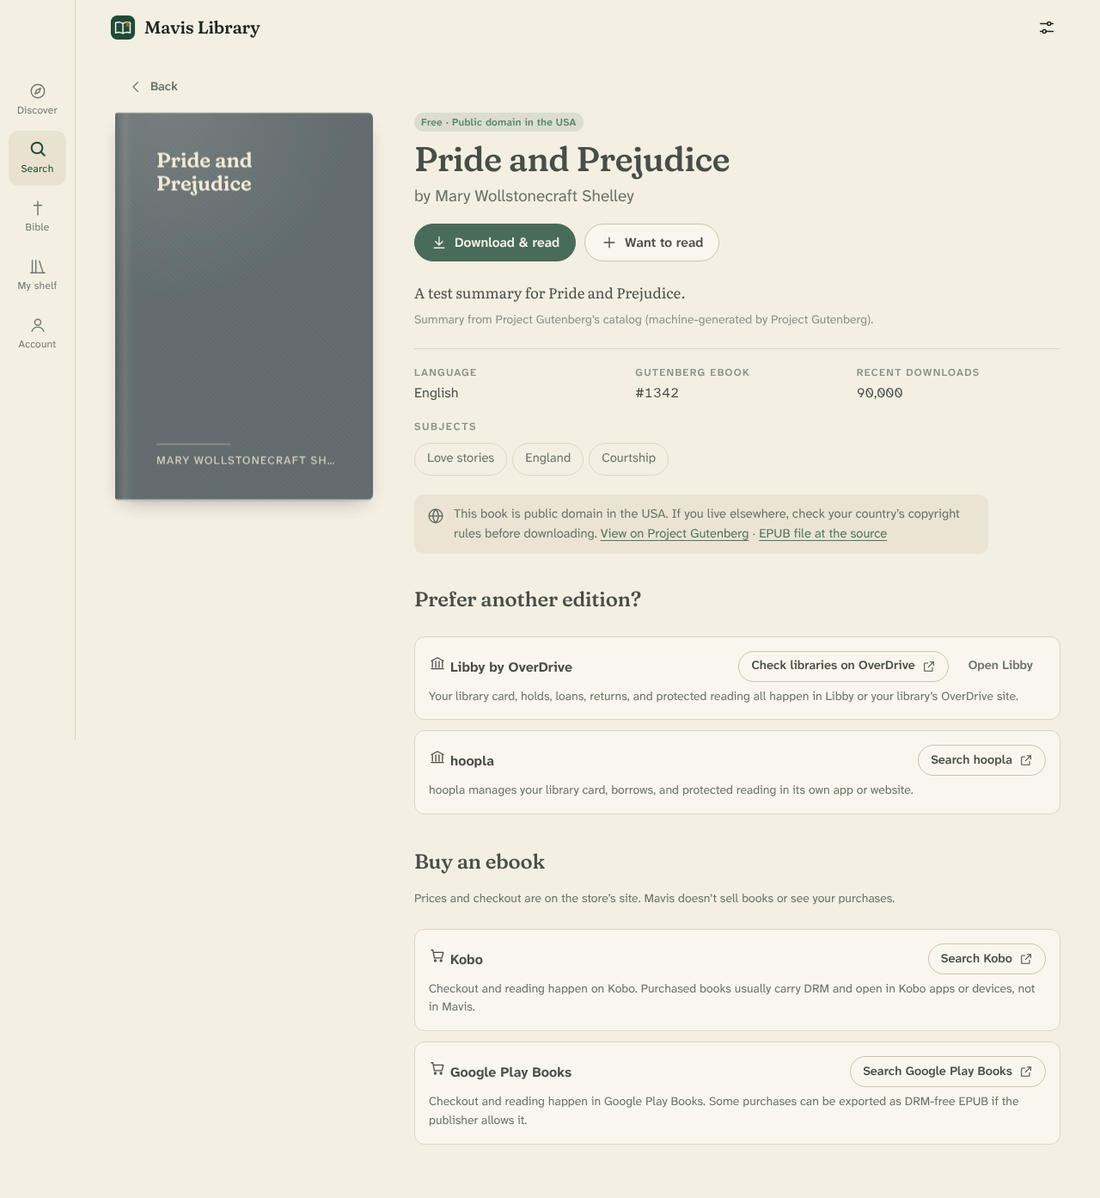
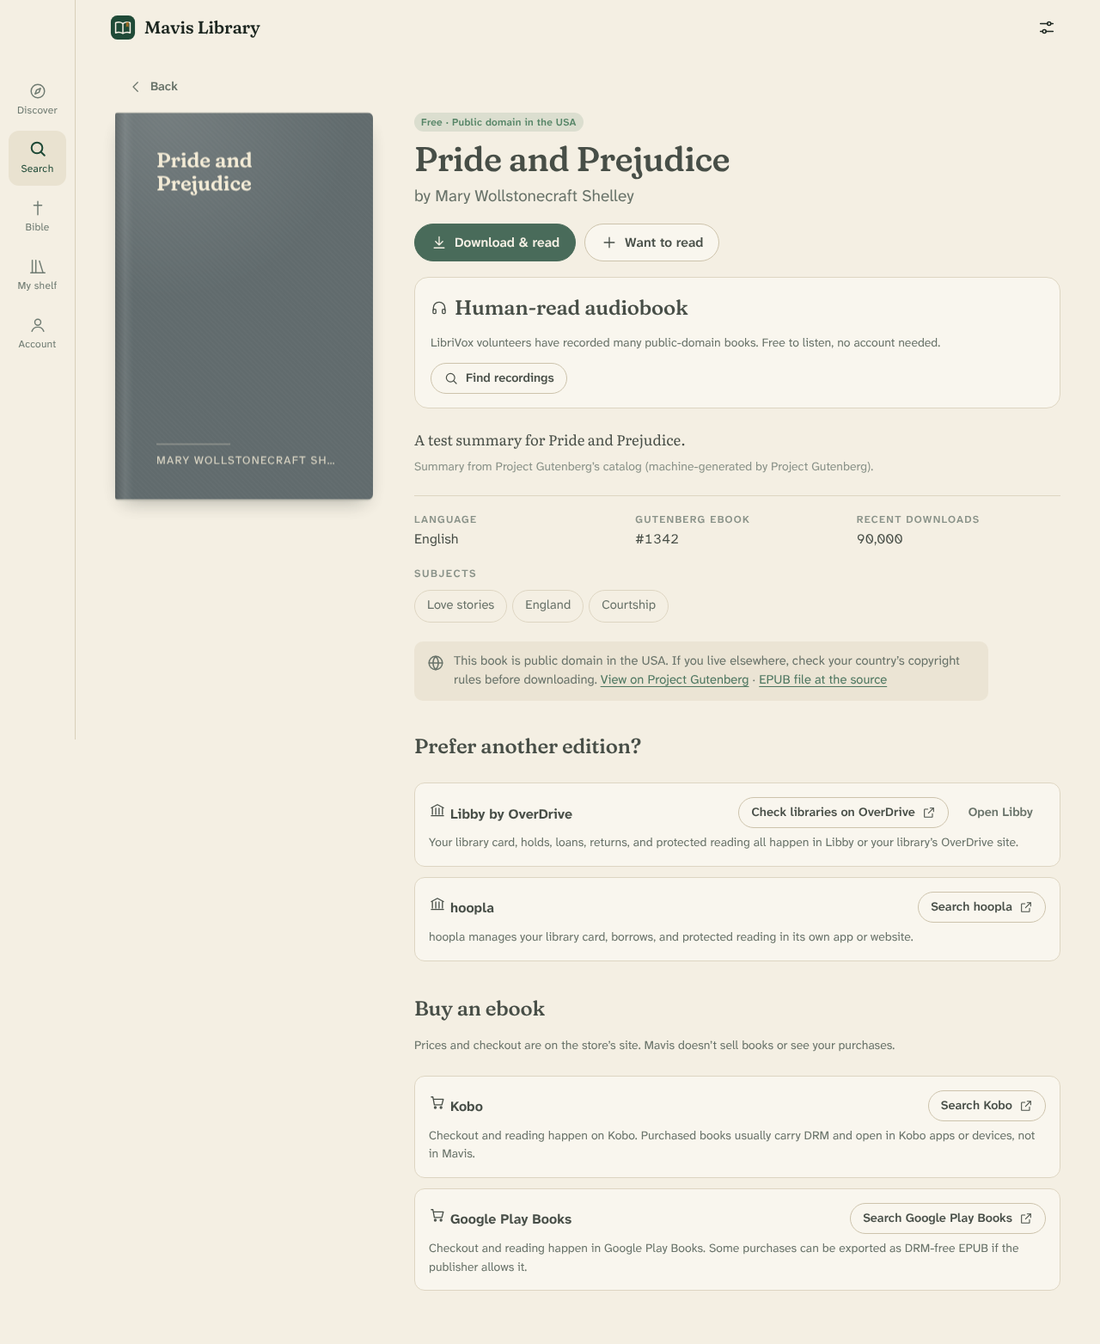
LibriVox human-read audiobooks: find, stream, save offline in the car player
Claude-Session: https://claude.ai/code/session_01BNnzn9vtXoxsDA29kevtWB

diff --git a/src/lib/librivox.js b/src/lib/librivox.js
@@ -1,0 +1,159 @@
+// LibriVox: free, human-read audiobooks of public-domain books (volunteer
+// readers; recordings are public domain). Recordings stream from archive.org
+// and can be saved on the device for offline listening. They play in the same
+// player as Mavis's own audiobooks, so position, speed, sleep timer, and car
+// controls all work the same.
+
+import { html, icon, toast, formatBytes, confirmDialog } from './ui.js';
+import * as idb from './idb.js';
+import * as store from './store.js';
+import * as ab from './audiobook.js';
+
+export const lvKey = (bookKey) => `lv:${bookKey}`;
+const mid = (key) => `${store.getOwner()}|${key}`;
+
+export async function findVersions(book) {
+  const p = new URLSearchParams({ title: book.title || '' });
+  if (book.source === 'gutenberg' && book.sourceId) p.set('gid', String(book.sourceId));
+  const a = (book.authors || [])[0];
+  if (a) p.set('author', typeof a === 'string' ? a : a.name || '');
+  let r;
+  try { r = await fetch(`/api/librivox?${p}`); } catch { throw new Error('Couldn’t reach LibriVox. Check your connection.'); }
+  const j = await r.json().catch(() => ({}));
+  if (!r.ok) throw new Error(j.message || `LibriVox answered ${r.status}.`);
+  return j.versions || [];
+}
+
+export const hms = (secs) => {
+  const h = Math.floor(secs / 3600), m = Math.round((secs % 3600) / 60);
+  return h ? `${h} hr ${m} min` : `${m} min`;
+};
+
+/** Make (or update) the player manifest for a LibriVox version, keeping the position if it's the same recording. */
+export async function useVersion(bookKey, version, title) {
+  const key = lvKey(bookKey);
+  const cur = await ab.manifest(key);
+  if (cur && cur.versionId === version.id) return cur;
+  const m = {
+    bookKey: key, title, source: 'librivox', versionId: version.id, versionTitle: version.title, readers: version.readers,
+    createdAt: Date.now(), bytes: 0, position: { ch: 0, n: 0, t: 0 },
+    chapters: version.sections.map((s, i) => ({ index: i, title: s.title, chunks: [{ url: s.url, secs: s.secs, chars: Math.max(1, s.secs) * 15, reader: s.reader, text: '', done: false }] })),
+  };
+  if (cur) await idb.delPrefix('audio', `${mid(key)}|`); // a different recording: drop the old files
+  await idb.put('audiobooks', { ...m, id: mid(key), owner: store.getOwner() });
+  return m;
+}
+
+const jobs = new Map();
+export const isSaving = (bookKey) => jobs.has(bookKey);
+
+/** Save every part of the chosen recording on the device. */
+export function saveOffline(bookKey, { onProgress } = {}) {
+  if (jobs.has(bookKey)) return jobs.get(bookKey).promise;
+  const key = lvKey(bookKey);
+  let cancelled = false;
+  const job = { cancel: () => { cancelled = true; } };
+  job.promise = (async () => {
+    const m = await ab.manifest(key);
+    if (!m) throw new Error('Choose a recording first.');
+    const queue = m.chapters.filter((c) => !c.chunks[0].done).map((c) => c);
+    const total = m.chapters.length;
+    let done = total - queue.length;
+    onProgress?.(done, total, m.bytes || 0);
+    const worker = async () => {
+      while (queue.length && !cancelled) {
+        const c = queue.shift();
+        const k = c.chunks[0];
+        let blob = null;
+        for (let attempt = 0; attempt < 3 && !blob && !cancelled; attempt++) {
+          try {
+            const r = await fetch(k.url, { mode: 'cors' });
+            if (!r.ok) throw new Error(`archive.org answered ${r.status}`);
+            blob = await r.blob();
+          } catch (err) {
+            if (!navigator.onLine) throw new Error('You went offline. Saving picks up where it left off.');
+            await new Promise((res) => setTimeout(res, 1500 * (attempt + 1)));
+          }
+        }
+        if (cancelled) return;
+        if (!blob) throw new Error(`Couldn’t download “${c.title}”. Try again later; saved parts are kept.`);
+        try { await idb.put('audio', { id: `${mid(key)}|${c.index}|0`, blob }); }
+        catch (err) { if (idb.isQuotaError(err)) throw new Error('This device is out of storage space.'); throw err; }
+        k.done = true;
+        m.bytes = (m.bytes || 0) + blob.size;
+        await idb.put('audiobooks', { ...m, id: mid(key), owner: store.getOwner() });
+        onProgress?.(++done, total, m.bytes);
+      }
+    };
+    await Promise.all([worker(), worker()]);
+    return { done, total };
+  })().finally(() => jobs.delete(bookKey));
+  jobs.set(bookKey, job);
+  return job.promise;
+}
+
+export function stopSaving(bookKey) { jobs.get(bookKey)?.cancel(); }
+
+/** The "Human-read audiobook" panel on a free book's page. */
+export async function mountLibriVoxPanel(el, { key, book }) {
+  let versions = null;
+  let busy = false;
+  async function paint(msg = '') {
+    const m = await ab.manifest(lvKey(key));
+    const saved = m ? m.chapters.filter((c) => c.chunks[0].done).length : 0;
+    if (!versions) {
+      el.innerHTML = String(html`<section class="ab-panel"><h2 class="h-section">${icon('headphones', { size: 20 })} Human-read audiobook</h2>
+        <p class="small muted">LibriVox volunteers have recorded many public-domain books. Free to listen, no account needed.</p>
+        ${m ? html`<div class="ab-actions"><a class="btn btn-sm btn-primary" href="#/listen/${encodeURIComponent(lvKey(key))}">${icon('play', { size: 18 })} Continue listening</a></div>` : ''}
+        <div class="ab-actions"><button type="button" class="btn btn-sm" data-lv="find">${icon('search', { size: 18 })} Find recordings</button></div>${msg ? html`<p class="small muted">${msg}</p>` : ''}</section>`);
+      return;
+    }
+    if (!versions.length) {
+      el.innerHTML = String(html`<section class="ab-panel"><h2 class="h-section">${icon('headphones', { size: 20 })} Human-read audiobook</h2><p class="small muted">LibriVox doesn’t have a recording of this book yet.</p></section>`);
+      return;
+    }
+    const cur = m?.versionId || versions[0].id;
+    el.innerHTML = String(html`<section class="ab-panel"><h2 class="h-section">${icon('headphones', { size: 20 })} Human-read audiobook</h2>
+      <div class="field"><label for="lv-v">Recording</label><select class="select" id="lv-v">${versions.map((v) => html`<option value="${v.id}" ${v.id === cur ? 'selected' : ''}>${v.readers.join(', ')}${v.moreReaders ? ` +${v.moreReaders} more` : ''} · ${hms(v.totalSecs)}${v.readers.length > 1 || v.moreReaders ? ' (group)' : ' (solo)'}</option>`)}</select></div>
+      <div class="ab-actions">
+        <button type="button" class="btn btn-sm btn-primary" data-lv="listen">${icon('play', { size: 18 })} ${m && m.versionId === cur ? 'Continue listening' : 'Listen'}</button>
+        ${m && m.versionId === cur && saved === m.chapters.length ? html`<span class="badge badge-ok">${icon('check', { size: 14 })} Saved for offline · ${formatBytes(m.bytes || 0)}</span>`
+          : html`<button type="button" class="btn btn-sm" data-lv="save" ${busy ? 'disabled' : ''}>${icon('download', { size: 18 })} ${busy ? 'Saving…' : saved ? `Save the rest for offline (${saved}/${m.chapters.length})` : 'Save for offline'}</button>`}
+        ${busy ? html`<button type="button" class="btn btn-sm btn-quiet" data-lv="stop">Stop</button>` : ''}
+        ${m ? html`<button type="button" class="btn btn-sm btn-quiet" data-lv="remove">${icon('trash', { size: 18 })} Remove</button>` : ''}
+      </div>
+      <p class="small muted" id="lv-msg">${msg}</p>
+      <p class="small faint">Recordings by LibriVox volunteers (public domain), streamed from the Internet Archive. ${versions.find((v) => v.id === cur)?.url ? html`<a href="${versions.find((v) => v.id === cur).url}" target="_blank" rel="noopener noreferrer">About this recording</a>` : ''}</p></section>`);
+  }
+  el.addEventListener('click', async (e) => {
+    const a = e.target.closest('[data-lv]')?.dataset.lv;
+    if (!a) return;
+    try {
+      if (a === 'find') {
+        e.target.closest('button').disabled = true;
+        versions = await findVersions({ ...book, key });
+        paint();
+      }
+      const pick = () => versions.find((v) => v.id === el.querySelector('#lv-v')?.value) || versions[0];
+      if (a === 'listen') {
+        await useVersion(key, pick(), book.title);
+        location.hash = `#/listen/${encodeURIComponent(lvKey(key))}?play=1`;
+      }
+      if (a === 'save') {
+        await useVersion(key, pick(), book.title);
+        busy = true; paint('Saving… keep Mavis open until it finishes.');
+        await saveOffline(key, { onProgress: (n, t, bytes) => { const m = el.querySelector('#lv-msg'); if (m) m.textContent = `Saved ${n} of ${t} parts · ${formatBytes(bytes)}`; } });
+        busy = false; toast(`“${book.title}” is saved for offline listening.`); paint();
+      }
+      if (a === 'stop') { stopSaving(key); busy = false; paint('Stopped. Saved parts are kept.'); }
+      if (a === 'remove') {
+        const ok = await confirmDialog({ title: 'Remove this recording?', message: 'Saved audio and your listening position for this recording are removed from this device.', confirmLabel: 'Remove' });
+        if (ok) { stopSaving(key); await ab.remove(lvKey(key)); paint(); }
+      }
+    } catch (err) {
+      busy = false;
+      paint(err.message);
+    }
+  });
+  await paint();
+}

diff --git a/src/views/listen.js b/src/views/listen.js
@@ -14,14 +14,17 @@ const RATES = [0.8, 0.9, 1, 1.1, 1.25, 1.5, 1.75, 2];
 
 export async function render(root, route, { navigate }) {
   const key = route.segs[0] || '';
+  const bookKey = key.startsWith('lv:') ? key.slice(3) : key;
   const m = await ab.manifest(key);
-  const item = await store.getShelfItem(key).catch(() => null);
-  const book = { ...(recallBook(key) || {}), ...(item || {}) };
-  if (!m || !ab.summarize(m).done) {
+  const item = await store.getShelfItem(bookKey).catch(() => null);
+  const book = { ...(recallBook(bookKey) || {}), ...(item || {}) };
+  const recorded = m?.source === 'librivox';
+  const hasFile = await store.hasFile(bookKey).catch(() => false);
+  if (!m || (!recorded && !ab.summarize(m).done)) {
     root.innerHTML = String(html`<div class="page" style="padding-top:20px">${stateBlock({
       title: 'No audio saved for this book yet',
       text: 'Open the book’s page and choose “Get it as audio” to save it for offline listening.',
-      actions: html`<a class="btn btn-primary btn-sm" href="#/book/${encodeURIComponent(key)}">Book page</a><a class="btn btn-sm" href="#/shelf">My shelf</a>`,
+      actions: html`<a class="btn btn-primary btn-sm" href="#/book/${encodeURIComponent(bookKey)}">Book page</a><a class="btn btn-sm" href="#/shelf">My shelf</a>`,
     })}</div>`);
     return;
   }
@@ -30,12 +33,12 @@ export async function render(root, route, { navigate }) {
     <div class="page listen">
       <div class="listen-top">
         <button type="button" class="btn btn-quiet btn-sm" data-l="back">${icon('back', { size: 18 })} Back</button>
-        <a class="btn btn-quiet btn-sm" id="open-book" href="#/read/${encodeURIComponent(key)}">${icon('book', { size: 18 })} Open the book here</a>
+        <a class="btn btn-quiet btn-sm" id="open-book" href="${hasFile ? `#/read/${encodeURIComponent(bookKey)}` : `#/book/${encodeURIComponent(bookKey)}`}">${icon('book', { size: 18 })} ${hasFile ? (recorded ? 'Open the book' : 'Open the book here') : 'Book page'}</a>
       </div>
       <div class="listen-head">
         <div class="listen-cover">${cover(book, { eager: true })}</div>
         <div class="listen-meta">
-          <p class="eyebrow">Listening offline</p>
+          <p class="eyebrow">${recorded ? `LibriVox recording · read by ${(m.readers || []).join(', ') || 'volunteers'}` : 'Listening offline'}</p>
           <h1>${bookTitle}</h1>
           <p class="listen-chapter" id="l-chapter"></p>
         </div>
@@ -57,9 +60,10 @@ export async function render(root, route, { navigate }) {
       </div>
       <details class="listen-chapters"><summary>Chapters</summary><ol id="l-list">${m.chapters.map((c) => {
         const done = c.chunks.filter((k) => k.done).length;
-        return html`<li><button type="button" class="linklike" data-ch="${c.index}">${c.title}</button> <span class="small faint">${done === c.chunks.length ? ab.durationLabel(c.chunks.reduce((a, k) => a + k.chars, 0)) : done ? `${Math.round((done / c.chunks.length) * 100)}% saved` : 'not saved'}</span></li>`;
+        const len = ab.durationLabel(c.chunks.reduce((a, k) => a + k.chars, 0));
+        return html`<li><button type="button" class="linklike" data-ch="${c.index}">${c.title}</button> <span class="small faint">${recorded ? `${len}${done ? ' · saved' : ''}` : done === c.chunks.length ? len : done ? `${Math.round((done / c.chunks.length) * 100)}% saved` : 'not saved'}</span></li>`;
       })}</ol></details>
-      <p class="small faint listen-note">Plays from this device — no signal needed. You can lock the phone or switch to maps; your car’s and headphones’ buttons work (skip = next chapter).</p>
+      <p class="small faint listen-note">${recorded ? 'Streams from the Internet Archive, or plays from this device for parts you’ve saved.' : 'Plays from this device — no signal needed.'} You can lock the phone or switch to maps; your car’s and headphones’ buttons work (skip = next chapter).</p>
     </div>`);
 
   const $ = (s) => root.querySelector(s);
@@ -83,7 +87,7 @@ export async function render(root, route, { navigate }) {
     $('#l-bar').style.width = `${Math.round(s.progress.fraction * 1000) / 10}%`;
     $('#l-left').textContent = `${Math.round(s.progress.fraction * 100)}% · about ${ab.durationLabel(s.progress.remainingChars / (s.rate || 1))} left`;
     const c = m.chapters[s.chapterIndex]?.chunks[player.pos.n];
-    if (c?.cfi) $('#open-book').href = `#/read/${encodeURIComponent(key)}?at=${encodeURIComponent(c.cfi)}`;
+    if (c?.cfi && hasFile) $('#open-book').href = `#/read/${encodeURIComponent(bookKey)}?at=${encodeURIComponent(c.cfi)}`;
     $('#l-status').textContent = s.error || (s.state === 'loading' ? 'Loading…' : s.state === 'paused' ? 'Paused' : s.state === 'ended' ? 'The end.' : s.reason === 'sleep' ? 'Sleep timer: paused.' : s.sleepAt ? `Stops at ${new Date(s.sleepAt).toLocaleTimeString([], { hour: 'numeric', minute: '2-digit' })}` : s.sleepEndOfChapter ? 'Stops at the end of this chapter' : '');
     for (const b of root.querySelectorAll('[data-ch]')) b.toggleAttribute('aria-current', Number(b.dataset.ch) === s.chapterIndex);
   }
@@ -92,7 +96,7 @@ export async function render(root, route, { navigate }) {
     const ch = e.target.closest('[data-ch]');
     if (ch) { player.goToChapter(Number(ch.dataset.ch)); return; }
     const a = e.target.closest('[data-l]')?.dataset.l;
-    if (a === 'back') { history.length > 1 ? history.back() : navigate(`/book/${encodeURIComponent(key)}`); }
+    if (a === 'back') { history.length > 1 ? history.back() : navigate(`/book/${encodeURIComponent(bookKey)}`); }
     if (a === 'toggle') player.toggle();
     if (a === 'back30') player.seekBy(-30);
     if (a === 'fwd30') player.seekBy(30);

diff --git a/src/lib/audiobook-player.js b/src/lib/audiobook-player.js
@@ -49,7 +49,7 @@ export class AudiobookPlayer {
     const frac = this.audio.duration ? this.audio.currentTime / this.audio.duration : 0;
     this.onState?.({
       state: this.state, chapter: this.chapter?.title || '', chapterIndex: this.pos.ch, chapters: this.m.chapters.length,
-      line: c ? sentenceAt(c.text, frac) : '', progress: this.progress(), rate: this.rate, sleepAt: this.sleepAt,
+      line: c ? (c.text ? sentenceAt(c.text, frac) : c.reader ? `Read by ${c.reader}` : '') : '', progress: this.progress(), rate: this.rate, sleepAt: this.sleepAt,
       sleepEndOfChapter: this.sleepEndOfChapter, ...extra,
     });
   }
@@ -84,7 +84,18 @@ export class AudiobookPlayer {
   async urlFor(ch, n) {
     const id = `${ch}|${n}`;
     if (this.urls.has(id)) return this.urls.get(id);
-    const p = this.blobFor(ch, n).then((b) => (b ? URL.createObjectURL(b) : null));
+    const k = this.m.chapters[ch]?.chunks[n];
+    const p = (async () => {
+      const cached = await ab.chunkBlob(this.key, ch, n);
+      if (cached) return URL.createObjectURL(cached);
+      if (k?.url) {
+        // A recorded audiobook (LibriVox): stream it from archive.org.
+        if (!navigator.onLine) throw new Error('This part isn’t saved on the phone and you’re offline. Save the recording for offline when you have signal.');
+        return k.url;
+      }
+      const b = await this.blobFor(ch, n);
+      return b ? URL.createObjectURL(b) : null;
+    })();
     this.urls.set(id, p);
     p.catch(() => this.urls.delete(id));
     return p;
@@ -147,7 +158,7 @@ export class AudiobookPlayer {
   release(id) {
     const p = this.urls.get(id);
     this.urls.delete(id);
-    p?.then((u) => u && setTimeout(() => URL.revokeObjectURL(u), 4000)).catch(() => {});
+    p?.then((u) => u?.startsWith('blob:') && setTimeout(() => URL.revokeObjectURL(u), 4000)).catch(() => {});
   }
 
   tick() {
@@ -306,7 +317,7 @@ export class AudiobookPlayer {
     this.audio.pause();
     this.audio.removeAttribute('src');
     try { this.audio.load(); } catch { /* ignore */ }
-    for (const p of this.urls.values()) p.then((u) => u && URL.revokeObjectURL(u)).catch(() => {});
+    for (const p of this.urls.values()) p.then((u) => u?.startsWith('blob:') && URL.revokeObjectURL(u)).catch(() => {});
     this.urls.clear();
     clearTimeout(this.sleepTimer);
     this.releaseWakeLock();

diff --git a/src/views/shelf.js b/src/views/shelf.js
@@ -117,7 +117,9 @@ export async function render(root, route, { navigate, token }) {
     painting = true;
     try {
       const [items, progress, files, audio] = await Promise.all([store.listShelf(), store.allProgress(), store.fileKeysForOwner(), listDownloaded()]);
-      const audioKeys = new Set(audio.filter((m) => summarize(m).done > 0).map((m) => m.bookKey));
+      // Saved audio (Mavis voice or LibriVox recording) → listen button on the book's card.
+      const listenKey = new Map(audio.filter((m) => summarize(m).done > 0).map((m) => [m.bookKey.replace(/^lv:/, ''), m.bookKey]));
+      const audioKeys = new Set(listenKey.keys());
       if (!token()) return;
       const counts = { all: items.length, reading: 0, want: 0, finished: 0 };
       for (const b of items) counts[b.status] = (counts[b.status] || 0) + 1;
@@ -173,7 +175,7 @@ export async function render(root, route, { navigate, token }) {
       })}</div>`);
       for (const k of audioKeys) {
         const card = [...body.querySelectorAll('[data-menu]')].find((x) => x.dataset.menu === k)?.closest('.shelf-card');
-        if (card) card.insertAdjacentHTML('beforeend', String(html`<a class="icon-btn listen-btn" href="#/listen/${encodeURIComponent(k)}" aria-label="Listen to the saved audio">${icon('headphones', { size: 20 })}</a>`));
+        if (card) card.insertAdjacentHTML('beforeend', String(html`<a class="icon-btn listen-btn" href="#/listen/${encodeURIComponent(listenKey.get(k))}" aria-label="Listen to the saved audio">${icon('headphones', { size: 20 })}</a>`));
       }
       for (const btn of body.querySelectorAll('[data-menu]')) btn.addEventListener('click', () => openMenu(items.find((x) => x.key === btn.dataset.menu), files.has(btn.dataset.menu)));
     } catch (err) {

diff --git a/src/views/book.js b/src/views/book.js
@@ -100,6 +100,7 @@ export async function render(root, route, { navigate, token }) {
             </div>
             <div id="dl"></div>
             ${hasFile && (item?.format || book.format || 'epub') !== 'pdf' ? html`<div id="ab"></div>` : ''}
+            ${isFree ? html`<div id="lv"></div>` : ''}
             ${fileOnOtherDevice ? html`<div class="notice" style="margin-top:14px">${icon('info')}<span>This book was imported on another device. Book files stay on the device they were imported on; import “${book.fileName || 'the file'}” here to read it. Your progress and notes will carry over.</span></div>` : ''}
 
             ${book.summary ? html`<div class="summary"><p>${book.summary}</p><span class="attrib">Summary from Project Gutenberg’s catalog (machine-generated by Project Gutenberg).</span></div>` : ''}
@@ -151,6 +152,8 @@ export async function render(root, route, { navigate, token }) {
     audioCleanup?.(); audioCleanup = null;
     const abEl = root.querySelector('#ab');
     if (abEl) mountAudioPanel(abEl, { key, book }).then((c) => { audioCleanup = c; }).catch((err) => console.warn(err));
+    const lvEl = root.querySelector('#lv');
+    if (lvEl) import('../lib/librivox.js').then(({ mountLibriVoxPanel }) => mountLibriVoxPanel(lvEl, { key, book: { ...book, source, sourceId } })).catch((err) => console.warn(err));
     root.querySelector('[data-back]').addEventListener('click', () => (history.length > 1 ? history.back() : navigate('/')));
     root.querySelector('[data-download]')?.addEventListener('click', download);
     root.querySelector('[data-want]')?.addEventListener('click', async () => {

diff --git a/tests/e2e/run_e2e.py b/tests/e2e/run_e2e.py
@@ -1262,10 +1262,46 @@ def run_v2(browser):
         expect(page.locator('.quote-card [data-video]').first).to_be_visible()
     _(page)
 
+    @test('LibriVox: find human-read recordings of a Gutenberg book, stream one, save it for offline, keep listening offline')
+    def _(page):
+        import urllib.request
+        mp3 = urllib.request.urlopen(FEAT + '/__test/silent.mp3').read()
+        ctx.route('https://www.archive.org/**', lambda r: r.fulfill(status=200, content_type='audio/mpeg', body=mp3, headers={'access-control-allow-origin': '*', 'accept-ranges': 'bytes'}))
+        page.goto(FEAT + '/#/book/gutenberg:1342')
+        panel = page.locator('.ab-panel', has_text='Human-read audiobook')
+        panel.get_by_role('button', name='Find recordings').click()
+        sel = panel.locator('#lv-v')
+        expect(sel.locator('option')).to_have_count(2, timeout=10000)
+        expect(sel.locator('option').first).to_contain_text('Elizabeth Klett')
+        expect(sel.locator('option').first).to_contain_text('(solo)')
+        expect(sel.locator('option').nth(1)).to_contain_text('(group)')
+        panel.get_by_role('button', name='Listen').click()
+        expect(page).to_have_url(re.compile(r'#/listen/lv%3Agutenberg%3A1342'))
+        expect(page.locator('.listen .eyebrow')).to_contain_text('read by Elizabeth Klett')
+        wait_until(page, "document.querySelector('.listen')?.classList.contains('is-playing')", timeout=10000)
+        expect(page.locator('#l-chapter')).to_contain_text('of 3')
+        shot(page, '47-librivox-listen')
+        page.get_by_role('button', name='Pause').click()
+        page.goto(FEAT + '/#/book/gutenberg:1342')
+        panel.get_by_role('button', name='Find recordings').click()
+        panel.get_by_role('button', name=re.compile('Save for offline')).click()
+        expect(panel).to_contain_text('Saved for offline', timeout=20000)
+        ctx.set_offline(True)
+        page.goto(FEAT + '/#/listen/lv%3Agutenberg%3A1342')
+        page.get_by_role('button', name='Next chapter').click()
+        wait_until(page, "document.querySelector('.listen')?.classList.contains('is-playing')", timeout=10000)
+        ctx.set_offline(False)
+        page.get_by_role('button', name='Pause').click()
+        page.goto(FEAT + '/#/shelf')
+        card = page.locator('.shelf-card').filter(has_text='Pride and Prejudice')
+        expect(card.get_by_role('link', name='Listen to the saved audio')).to_have_attribute('href', re.compile('lv%3A'))
+        ctx.unroute('https://www.archive.org/**')
+    _(page)
+
     @test('Offline audiobook: save a whole book as audio, listen, keep playing with no network, resume where you stopped')
     def _(page):
         page.goto(FEAT + '/#/book/gutenberg:1342')
-        panel = page.locator('.ab-panel')
+        panel = page.locator('.ab-panel', has_text='Listen offline')
         expect(panel).to_be_visible(timeout=10000)
         panel.get_by_role('button', name=re.compile('Get it as audio')).click()
         expect(panel).to_contain_text('of audio', timeout=20000)

diff --git a/docs/test-evidence/e2e-report.md b/docs/test-evidence/e2e-report.md
@@ -1,8 +1,8 @@
 # Mavis Library end-to-end results
 
-Run: 2026-10-09 18:10 EDT · Chromium 141.0.7390.37 (headless, Linux) · 157s
+Run: 2026-10-09 18:21 EDT · Chromium 141.0.7390.37 (headless, Linux) · 162s
 
-**58 of 58 checks passed.**
+**59 of 59 checks passed.**
 
 | Result | Check |
 |---|---|
@@ -61,6 +61,7 @@ Run: 2026-10-09 18:10 EDT · Chromium 141.0.7390.37 (headless, Linux) · 157s
 | ✅ pass | Voices: choose a narrator from the voice library, and make a private copy of your own voice (with consent) |
 | ✅ pass | Full cast: each character gets a voice that fits, the narrator uses your voice, and the cast can be changed |
 | ✅ pass | Verse video: a narrated square video of John 3:16 made on the device, previewable and shareable |
+| ✅ pass | LibriVox: find human-read recordings of a Gutenberg book, stream one, save it for offline, keep listening offline |
 | ✅ pass | Offline audiobook: save a whole book as audio, listen, keep playing with no network, resume where you stopped |
 | ✅ pass | Picked for you: recommendations from shelf genres, ranked by Jev when available |
 | ✅ pass | Phone at 360px: Bible, search, quotes, and settings fit without sideways scrolling |
